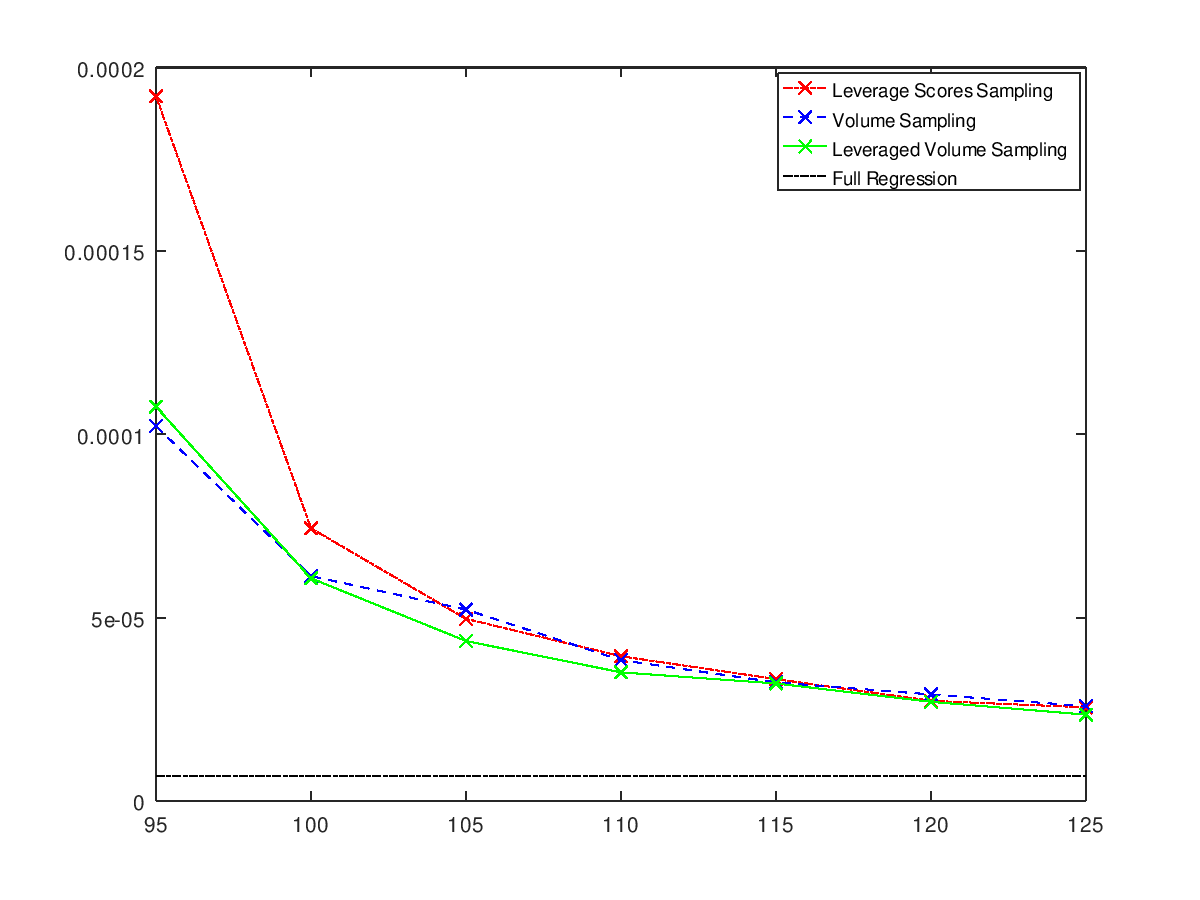
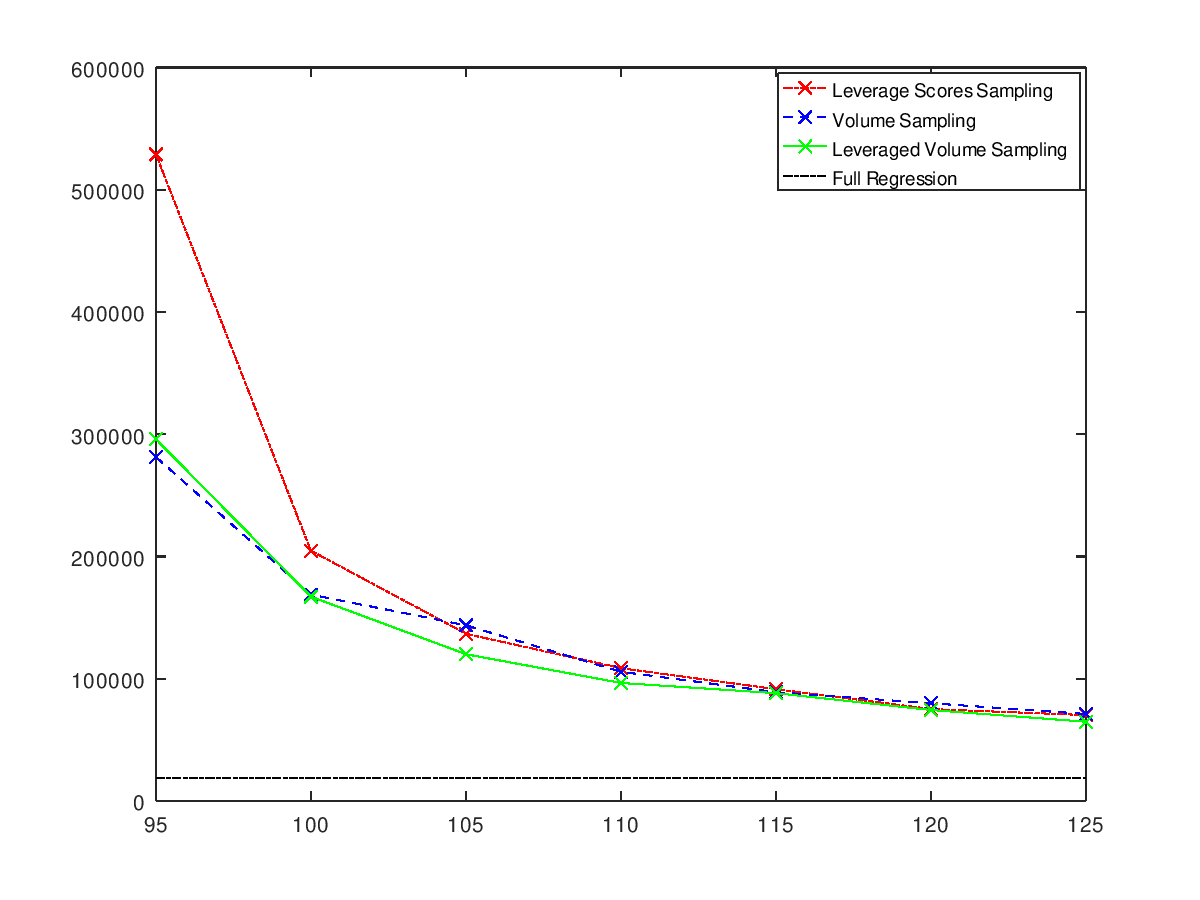
updated the MSD graph to it's final form

diff --git a/utils/refactor-MSD-graph.m b/utils/refactor-MSD-graph.m
@@ -1,0 +1,74 @@
+% the MSD graph was generated after rescaling X and y - which cause the error to be greatly reduced.
+% this script loads the MSD saved state and generates a correct graph.
+
+1;
+
+function _main
+    fprintf(stderr(), "loading dataset\n");
+    M=dlmread("downloaded-datasets/YearPredictionMSD" );
+    fprintf(stderr(), "dataset loaded\n");
+    y=M(:,1);
+    X=M(:,2:end);
+
+    load("graphs/YearPredictionMSD.png.octave");
+
+    errorfunc = @(v) (norm(y - X*v, 2)^2)/rows(X);
+
+    lvss_errors = {};
+    vss_errors = {};
+    lss_errors = {};
+
+    for sz=sample_sizes
+        lvss_errors{sz} = [];
+        vss_errors{sz} = [];
+        lss_errors{sz} = [];
+    endfor
+    
+    for i=1:columns(lvss_solutions)
+        compound_solution = lvss_solutions(:,i);
+        sample_size = compound_solution(1,1);
+        solution = compound_solution(2:end,1);
+
+        fprintf(stderr(), "evaluating solution of size %i\n", sample_size);
+
+        lvss_errors{sample_size} = [lvss_errors{sample_size} errorfunc(solution)];
+
+        compound_solution = vss_solutions(:,i);
+        sample_size = compound_solution(1,1);
+        solution = compound_solution(2:end,1);
+        vss_errors{sample_size} = [vss_errors{sample_size} errorfunc(solution)];
+
+        compound_solution = lss_solutions(:,i);
+        sample_size = compound_solution(1,1);
+        solution = compound_solution(2:end,1);
+        lss_errors{sample_size} = [lss_errors{sample_size} errorfunc(solution)];
+    endfor
+
+    optimal_error = errorfunc(X\y)*ones(size(sample_sizes));
+
+    fprintf(stderr(), "calculating mean LVSS errors\n");
+    lvss_sl2errors_avg = arrayfun(@(sz) mean(lvss_errors{sz}), sample_sizes);
+    fprintf(stderr(), "calculating mean VSS errors\n");
+    vss_sl2errors_avg = arrayfun(@(sz) mean(vss_errors{sz}), sample_sizes);
+    fprintf(stderr(), "calculating mean LSS errors\n");
+    lss_sl2errors_avg = arrayfun(@(sz) mean(lss_errors{sz}), sample_sizes);
+    
+    fprintf(stderr(), "plotting\n");
+    graph_handle = figure();
+
+    min_x = min(sample_sizes);
+    max_x = max(sample_sizes);
+    min_y = 0.98*min([lss_sl2errors_avg vss_sl2errors_avg lvss_sl2errors_avg optimal_error]);
+    max_y = 1.02*max([lss_sl2errors_avg vss_sl2errors_avg lvss_sl2errors_avg optimal_error]);
+    axis([min_x max_x min_y max_y]);
+
+    plot (sample_sizes, lss_sl2errors_avg, "-.xr;Leverage Scores Sampling;",
+          sample_sizes, vss_sl2errors_avg, "--xb;Volume Sampling;",
+          sample_sizes, lvss_sl2errors_avg, "-xg;Leveraged Volume Sampling;",
+          sample_sizes, optimal_error, "-.k;Full Regression;")
+
+    print(graph_handle, "graphs/YearPredictionMSD.fixed.png", "-dpng");
+
+endfunction
+
+_main

diff --git a/src/main.m b/src/main.m
@@ -27,7 +27,7 @@ function [optimal_l2error, regression_time, ...
 
     % normalize X and y
     info_trace("normalizing dataset...");
-    [X, y] = normalize_dataset(X, y);
+    [X, y, scaling_factor] = normalize_dataset(X, y);
 
     info_trace("dataset normalized");
 
@@ -97,6 +97,21 @@ function [optimal_l2error, regression_time, ...
         vss_solutions = [vss_solutions solutions];
     end
 
+    % now rescale everything with the scaling factor
+    optimal_error *= scaling_factor^2;
+
+    lvss_sl2errors *= scaling_factor^2;
+    lvss_sl2errors_avg *= scaling_factor^2;
+    lvss_sl2errors_std *= scaling_factor^2;
+
+    vss_sl2errors *= scaling_factor^2;
+    vss_sl2errors_avg *= scaling_factor^2;
+    vss_sl2errors_std *= scaling_factor^2;
+
+    lss_sl2errors *= scaling_factor^2;
+    lss_sl2errors_avg *= scaling_factor^2;
+    lss_sl2errors_std *= scaling_factor^2;
+
     info_trace("finished regressions - plotting results to %s", output_file);
 
     graph_handle = figure();
@@ -114,7 +129,7 @@ function [optimal_l2error, regression_time, ...
 
     print(graph_handle, output_file, "-dpng");
 
-    save(strcat(output_file, ".octave"), "sample_sizes", "lss_sl2errors", "vss_sl2errors", "lvss_sl2errors", "optimal_error", "lss_solutions", "vss_solutions", "lvss_solutions");
+    save(strcat(output_file, ".octave"), "scaling_factor", "sample_sizes", "lss_sl2errors", "vss_sl2errors", "lvss_sl2errors", "optimal_error", "lss_solutions", "vss_solutions", "lvss_solutions");
 
     info_trace("done plotting!");
 

diff --git a/src/normalize_dataset.m b/src/normalize_dataset.m
@@ -14,7 +14,7 @@
 % Note that we drop any eigenvalues that are diminished to 0 (which means either
 % they were 0 or there was some floating point error.
 
-function [nX, ny] = normalize_dataset(X, y)
+function [nX, ny, scaling_factor] = normalize_dataset(X, y)
     d = columns(X);
     Z = X'*X;
 
@@ -27,5 +27,6 @@ function [nX, ny] = normalize_dataset(X, y)
 
     nX = X/factor;
     ny = y/factor;
+    scaling_factor = factor;
 endfunction
 

diff --git a/summary/paper-summary.tex b/summary/paper-summary.tex
@@ -264,6 +264,11 @@
             \caption{mg dataset - mismatched with paper.}
             \label{fig:dataset1}
         \end{figure}
+        \begin{figure}
+            \includegraphics[width=\linewidth]{results/YearPredictionMSD.png}
+            \caption{MSD dataset.}
+            \label{fig:dataset1}
+        \end{figure}
 
 \end{document}
 
